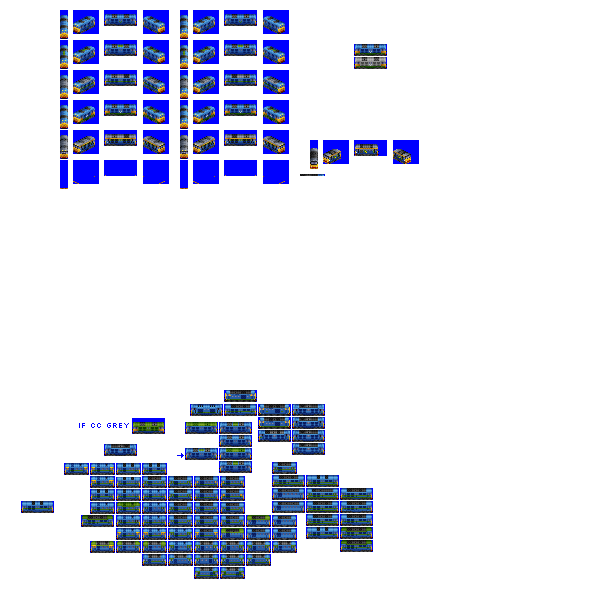
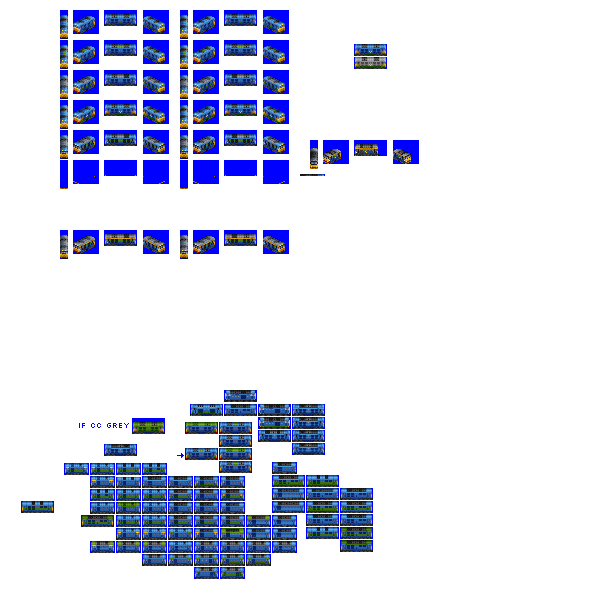
Change: adjust Merlion livery

diff --git a/src/vehicles/pony/merlion.py b/src/vehicles/pony/merlion.py
@@ -25,7 +25,7 @@ def main(**kwargs):
             "BANGER_BLUE",
             "CLASSIC_LINES",
             "RAILFREIGHT_RED_STRIPE",
-            "DUTCH",
+            "CONVENTIONAL_WISDOM",
         ],
         decor_spriterow_num=5,
         sprites_complete=True,
